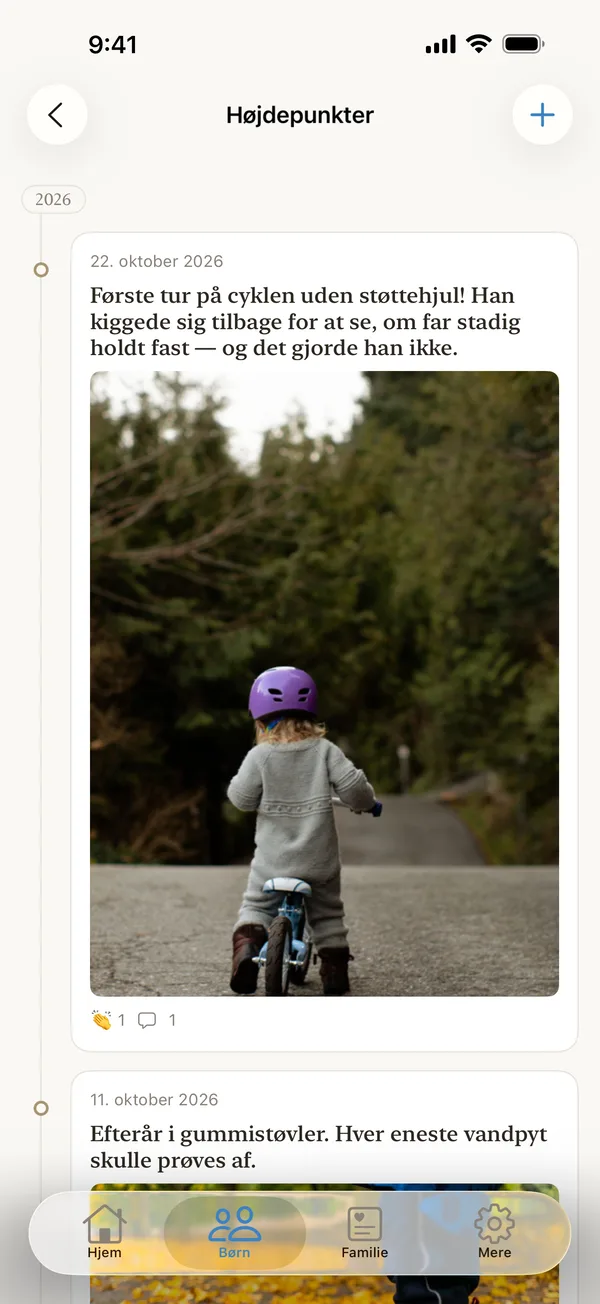
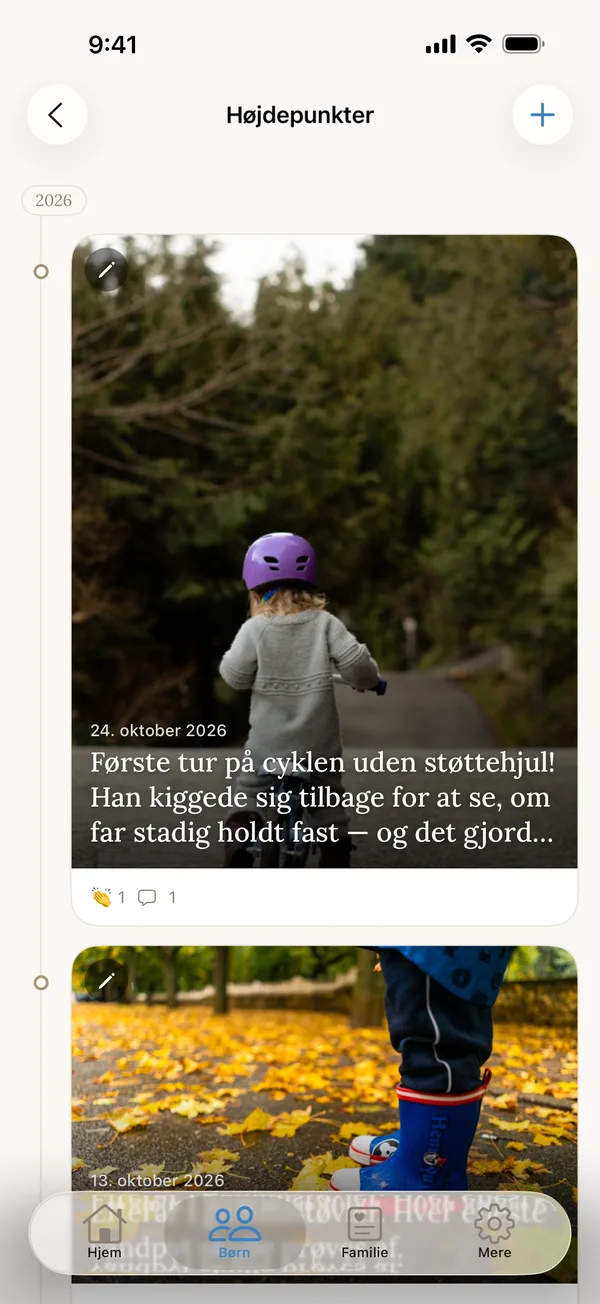
Landing: nye skærmbilleder (nyt design) og billede på Breve-kortet (#50)

diff --git a/vores-familie/index.html b/vores-familie/index.html
@@ -237,7 +237,7 @@
       <div class="rail" id="rail">
         <article class="slide" style="background:var(--green-soft);color:var(--green)"><div><h3 class="h3 serif">Højdepunkter med billeder</h3><p>Første tur på cyklen, første ord, første gang ved havet — med billeder, video og lyd.</p></div><div class="art shot"><img src="img/04-hoejdepunkter.webp" alt="Højdepunkt: første tur på cyklen" loading="lazy" width="600" height="1304"></div></article>
         <article class="slide" style="background:var(--rose-soft);color:var(--rose)"><div><h3 class="h3 serif">Det årlige interview</h3><p>Samme spørgsmål hver fødselsdag. Hør stemmen og svarene vokse fra 2 til 18 år.</p></div><div class="art shot"><img src="img/05-interview.webp" alt="Det årlige interview med svar fra 4 år" loading="lazy" width="600" height="1304"></div></article>
-        <article class="slide" style="background:var(--brown-soft);color:var(--brown)"><div><h3 class="h3 serif">Breve til dit 18-årige barn</h3><p>Skriv i dag, forsegl til en dato. Åbnes først, når tiden er inde.</p></div><div class="art"><svg viewBox="0 0 24 24"><rect x="3" y="6" width="18" height="13" rx="2.5"/><path d="M3.5 7.5l8.5 6 8.5-6"/></svg></div></article>
+        <article class="slide" style="background:var(--brown-soft);color:var(--brown)"><div><h3 class="h3 serif">Breve til dit 18-årige barn</h3><p>Skriv i dag, forsegl til en dato. Åbnes først, når tiden er inde.</p></div><div class="art shot"><img src="img/11-breve.webp" alt="Brevet Til dig, når du bliver 18 — forseglet til 2040" loading="lazy" width="600" height="1304"></div></article>
         <article class="slide" style="background:var(--green-soft);color:var(--green)"><div><h3 class="h3 serif">Mindebogen som rigtig bog</h3><p>Ét kapitel for hvert år — som PDF til skærmen eller klar til trykkeriet.</p></div><div class="art"><svg viewBox="0 0 24 24"><path d="M5 4.5h11.5A2.5 2.5 0 0 1 19 7v13H7.5A2.5 2.5 0 0 1 5 17.5z"/><path d="M5 17.5A2.5 2.5 0 0 1 7.5 15H19"/></svg></div></article>
         <article class="slide" style="background:var(--neutral-soft);color:var(--brown)"><div><h3 class="h3 serif">Familiens opskrifter</h3><p>Mormors æblekage og historien bag, delt med hele familien.</p></div><div class="art shot"><img src="img/08-opskrifter.webp" alt="Familiens opskrifter: Fars pandekager og Mormors æblekage" loading="lazy" width="600" height="1304"></div></article>
         <article class="slide" style="background:var(--brown-soft);color:var(--brown)"><div><h3 class="h3 serif">Familiens traditioner</h3><p>Juleaftens rækkefølge og fødselsdagssangen — husket og givet videre.</p></div><div class="art shot"><img src="img/09-traditioner.webp" alt="Traditionen Juleaften hos farmor" loading="lazy" width="600" height="1304"></div></article>
